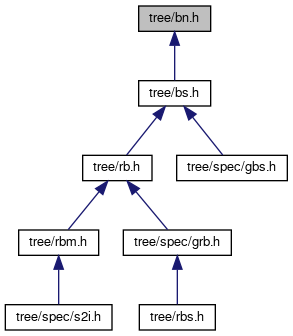
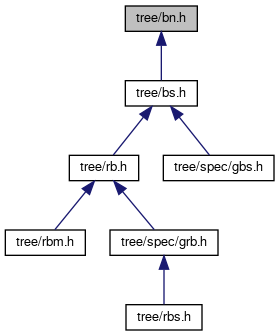
deploy: 6da577b3c638f62be2dbcc1170932581b73adc2b

diff --git a/files.html b/files.html
@@ -85,12 +85,11 @@ $(function() {
 <tr id="row_2_0_" class="even"><td class="entry"><span style="width:16px;display:inline-block;">&#160;</span><span id="arr_2_0_" class="arrow" onclick="toggleFolder('2_0_')">&#9660;</span><span id="img_2_0_" class="iconfopen" onclick="toggleFolder('2_0_')">&#160;</span><a class="el" href="dir_a12550118e5ce0504b5c7990660e61bc.html" target="_self">spec</a></td><td class="desc"></td></tr>
 <tr id="row_2_0_0_"><td class="entry"><span style="width:48px;display:inline-block;">&#160;</span><a href="gbs_8h_source.html"><span class="icondoc"></span></a><b>gbs.h</b></td><td class="desc"></td></tr>
 <tr id="row_2_0_1_" class="even"><td class="entry"><span style="width:48px;display:inline-block;">&#160;</span><a href="grb_8h_source.html"><span class="icondoc"></span></a><b>grb.h</b></td><td class="desc"></td></tr>
-<tr id="row_2_0_2_"><td class="entry"><span style="width:48px;display:inline-block;">&#160;</span><a href="s2i_8h_source.html"><span class="icondoc"></span></a><b>s2i.h</b></td><td class="desc"></td></tr>
-<tr id="row_2_1_" class="even"><td class="entry"><span style="width:32px;display:inline-block;">&#160;</span><a href="bn_8h_source.html"><span class="icondoc"></span></a><a class="el" href="bn_8h.html" target="_self">bn.h</a></td><td class="desc">Triển khai cây nhị phân khái quát chỉ bao gồm cấu trúc liên kết Có thể được kế thừa để lưu giữ liệu trong các nút </td></tr>
-<tr id="row_2_2_"><td class="entry"><span style="width:32px;display:inline-block;">&#160;</span><a href="bs_8h_source.html"><span class="icondoc"></span></a><b>bs.h</b></td><td class="desc"></td></tr>
-<tr id="row_2_3_" class="even"><td class="entry"><span style="width:32px;display:inline-block;">&#160;</span><a href="rb_8h_source.html"><span class="icondoc"></span></a><b>rb.h</b></td><td class="desc"></td></tr>
-<tr id="row_2_4_"><td class="entry"><span style="width:32px;display:inline-block;">&#160;</span><a href="rbm_8h_source.html"><span class="icondoc"></span></a><a class="el" href="rbm_8h.html" target="_self">rbm.h</a></td><td class="desc">Ánh xạ khóa=&gt;giá trị khái quát dựa trên cây đỏ-đen </td></tr>
-<tr id="row_2_5_" class="even"><td class="entry"><span style="width:32px;display:inline-block;">&#160;</span><a href="rbs_8h_source.html"><span class="icondoc"></span></a><b>rbs.h</b></td><td class="desc"></td></tr>
+<tr id="row_2_1_"><td class="entry"><span style="width:32px;display:inline-block;">&#160;</span><a href="bn_8h_source.html"><span class="icondoc"></span></a><a class="el" href="bn_8h.html" target="_self">bn.h</a></td><td class="desc">Triển khai cây nhị phân khái quát chỉ bao gồm cấu trúc liên kết Có thể được kế thừa để lưu giữ liệu trong các nút </td></tr>
+<tr id="row_2_2_" class="even"><td class="entry"><span style="width:32px;display:inline-block;">&#160;</span><a href="bs_8h_source.html"><span class="icondoc"></span></a><b>bs.h</b></td><td class="desc"></td></tr>
+<tr id="row_2_3_"><td class="entry"><span style="width:32px;display:inline-block;">&#160;</span><a href="rb_8h_source.html"><span class="icondoc"></span></a><b>rb.h</b></td><td class="desc"></td></tr>
+<tr id="row_2_4_" class="even"><td class="entry"><span style="width:32px;display:inline-block;">&#160;</span><a href="rbm_8h_source.html"><span class="icondoc"></span></a><a class="el" href="rbm_8h.html" target="_self">rbm.h</a></td><td class="desc">Ánh xạ khóa=&gt;giá trị khái quát dựa trên cây đỏ-đen </td></tr>
+<tr id="row_2_5_"><td class="entry"><span style="width:32px;display:inline-block;">&#160;</span><a href="rbs_8h_source.html"><span class="icondoc"></span></a><b>rbs.h</b></td><td class="desc"></td></tr>
 </table>
 </div><!-- directory -->
 </div><!-- contents -->

diff --git a/gtype_8h.html b/gtype_8h.html
@@ -95,16 +95,15 @@ Kèm theo graph phụ thuộc cho gtype.h:</div>
 <div class="dyncontent">
 <div class="center"><img src="gtype_8h__dep__incl.png" border="0" usemap="#abase_2gtype_8hdep" alt=""/></div>
 <map name="abase_2gtype_8hdep" id="abase_2gtype_8hdep">
-<area shape="rect" title="Định nghĩa kiểu gtype và các thành phần bổ trợ." alt="" coords="193,5,287,32"/>
-<area shape="rect" href="gdl_8h.html" title="Triển khai danh sách móc nối kép cho kiểu gtype Kế thừa ::struct dllist." alt="" coords="10,80,81,107"/>
-<area shape="rect" href="gsl_8h.html" title="Triển khai danh sách móc nối đơn cho gtype Kế thừa ::struct sllist." alt="" coords="105,80,175,107"/>
-<area shape="rect" href="rbm_8h.html" title="Ánh xạ khóa=&gt;giá trị khái quát dựa trên cây đỏ&#45;đen." alt="" coords="200,80,280,107"/>
-<area shape="rect" href="gbs_8h_source.html" title=" " alt="" coords="305,80,415,107"/>
-<area shape="rect" href="grb_8h_source.html" title=" " alt="" coords="439,80,547,107"/>
-<area shape="rect" href="que_8h_source.html" title=" " alt="" coords="5,155,80,181"/>
-<area shape="rect" href="stk_8h_source.html" title=" " alt="" coords="105,155,175,181"/>
-<area shape="rect" href="s2i_8h_source.html" title=" " alt="" coords="200,155,307,181"/>
-<area shape="rect" href="rbs_8h_source.html" title=" " alt="" coords="455,155,531,181"/>
+<area shape="rect" title="Định nghĩa kiểu gtype và các thành phần bổ trợ." alt="" coords="188,5,283,32"/>
+<area shape="rect" href="gdl_8h.html" title="Triển khai danh sách móc nối kép cho kiểu gtype Kế thừa ::struct dllist." alt="" coords="5,80,76,107"/>
+<area shape="rect" href="gsl_8h.html" title="Triển khai danh sách móc nối đơn cho gtype Kế thừa ::struct sllist." alt="" coords="100,80,171,107"/>
+<area shape="rect" href="rbm_8h.html" title="Ánh xạ khóa=&gt;giá trị khái quát dựa trên cây đỏ&#45;đen." alt="" coords="195,80,275,107"/>
+<area shape="rect" href="gbs_8h_source.html" title=" " alt="" coords="300,80,411,107"/>
+<area shape="rect" href="grb_8h_source.html" title=" " alt="" coords="435,80,543,107"/>
+<area shape="rect" href="que_8h_source.html" title=" " alt="" coords="50,155,125,181"/>
+<area shape="rect" href="stk_8h_source.html" title=" " alt="" coords="149,155,220,181"/>
+<area shape="rect" href="rbs_8h_source.html" title=" " alt="" coords="451,155,527,181"/>
 </map>
 </div>
 </div>

diff --git a/bn_8h.html b/bn_8h.html
@@ -97,14 +97,13 @@ Kèm theo graph phụ thuộc cho bn.h:</div>
 <div class="dyncontent">
 <div class="center"><img src="bn_8h__dep__incl.png" border="0" usemap="#atree_2bn_8hdep" alt=""/></div>
 <map name="atree_2bn_8hdep" id="atree_2bn_8hdep">
-<area shape="rect" title="Triển khai cây nhị phân khái quát chỉ bao gồm cấu trúc liên kết Có thể được kế thừa để lưu giữ liệu t..." alt="" coords="139,5,211,32"/>
-<area shape="rect" href="bs_8h_source.html" title=" " alt="" coords="139,80,211,107"/>
-<area shape="rect" href="rb_8h_source.html" title=" " alt="" coords="83,155,152,181"/>
-<area shape="rect" href="gbs_8h_source.html" title=" " alt="" coords="177,155,287,181"/>
-<area shape="rect" href="rbm_8h.html" title="Ánh xạ khóa=&gt;giá trị khái quát dựa trên cây đỏ&#45;đen." alt="" coords="19,229,99,256"/>
-<area shape="rect" href="grb_8h_source.html" title=" " alt="" coords="123,229,231,256"/>
-<area shape="rect" href="s2i_8h_source.html" title=" " alt="" coords="5,304,112,331"/>
-<area shape="rect" href="rbs_8h_source.html" title=" " alt="" coords="139,304,215,331"/>
+<area shape="rect" title="Triển khai cây nhị phân khái quát chỉ bao gồm cấu trúc liên kết Có thể được kế thừa để lưu giữ liệu t..." alt="" coords="125,5,197,32"/>
+<area shape="rect" href="bs_8h_source.html" title=" " alt="" coords="125,80,197,107"/>
+<area shape="rect" href="rb_8h_source.html" title=" " alt="" coords="69,155,139,181"/>
+<area shape="rect" href="gbs_8h_source.html" title=" " alt="" coords="163,155,274,181"/>
+<area shape="rect" href="rbm_8h.html" title="Ánh xạ khóa=&gt;giá trị khái quát dựa trên cây đỏ&#45;đen." alt="" coords="5,229,85,256"/>
+<area shape="rect" href="grb_8h_source.html" title=" " alt="" coords="110,229,218,256"/>
+<area shape="rect" href="rbs_8h_source.html" title=" " alt="" coords="126,304,202,331"/>
 </map>
 </div>
 </div>

diff --git a/rbm_8h.html b/rbm_8h.html
@@ -97,15 +97,6 @@ Kèm theo graph phụ thuộc cho rbm.h:</div>
 <area shape="rect" title=" " alt="" coords="277,379,334,405"/>
 </map>
 </div>
-</div><div class="textblock"><div class="dynheader">
-Đồ thị này biểu thị những file nào trực tiếp hoặckhông trực tiếp bao gồm file này:</div>
-<div class="dyncontent">
-<div class="center"><img src="rbm_8h__dep__incl.png" border="0" usemap="#atree_2rbm_8hdep" alt=""/></div>
-<map name="atree_2rbm_8hdep" id="atree_2rbm_8hdep">
-<area shape="rect" title="Ánh xạ khóa=&gt;giá trị khái quát dựa trên cây đỏ&#45;đen." alt="" coords="19,5,99,32"/>
-<area shape="rect" href="s2i_8h_source.html" title=" " alt="" coords="5,80,112,107"/>
-</map>
-</div>
 </div>
 <p><a href="rbm_8h_source.html">Tới mã nguồn của file này.</a></p>
 <table class="memberdecls">
